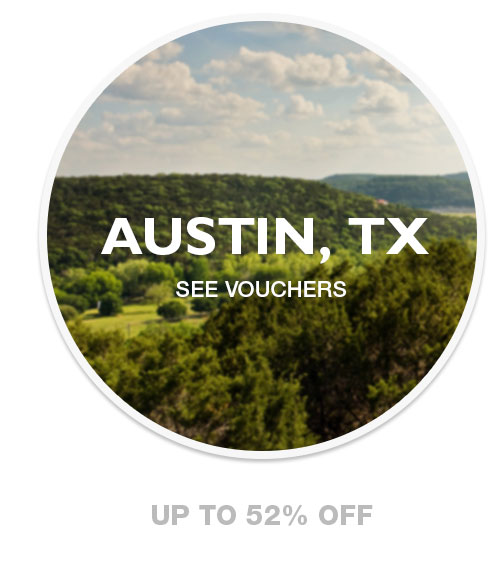
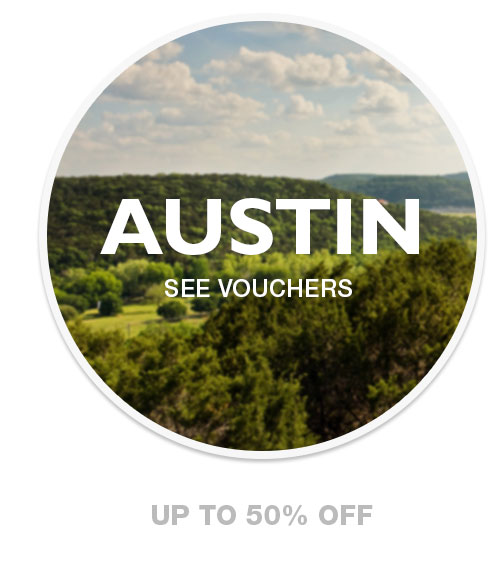
voucher email

Changed region(s): [[0.21, 0.3373, 0.87, 0.5213], [0.51, 0.8586, 0.57, 0.8893]]

diff --git a/templates/preferred/voucher-sale.html b/templates/preferred/voucher-sale.html
@@ -27,18 +27,18 @@
       <td colspan="2"><a href="http://asp.data2gold.com/?4D6F3Z0X30140B3761346A1U53601N460E5C590S4S0I541N523F282G6E05155W0F585V701M5R5E5G0W3H544L2D5M6737622L1H" title="http://travaasa.com/"><img src="./voucher-sale_files/2013feb_01.png" alt="Travaasa Experiential Resorts" width="606" height="110" border="0"></a></td>
     </tr>
     <tr>
-      <td width="303"><a href="http://book48.travaasa.com/category/austin" title="http://book48.travaasa.com/category/austin" target="_blank"><img src="./voucher-sale_files/austin-vouchers.jpg" alt="Austin: Click to Enter. Up to 52% Off" width="303" height="356" border="0"></a></td>
-      <td width="303"><a href="http://book48.travaasa.com/category/hana-maui" title="http://book48.travaasa.com/category/hana-maui" target="_blank"><img src="./voucher-sale_files/hana-vouchers.jpg" alt="Hana: Click to Enter. Up to 50% Off" width="303" height="356" border="0"></a></td>
+      <td width="303"><a href="http://book44.travaasa.com/category/austin" title="http://book44.travaasa.com/category/austin" target="_blank"><img src="./voucher-sale_files/austin-vouchers3.jpg" alt="Austin: Click to Enter. Up to 50% Off" width="303" height="356" border="0"></a></td>
+      <td width="303"><a href="http://book44.travaasa.com/category/hana-maui" title="http://book44.travaasa.com/category/hana-maui" target="_blank"><img src="./voucher-sale_files/hana-vouchers3.jpg" alt="Hana: Click to Enter. Up to 47% Off" width="303" height="356" border="0"></a></td>
     </tr>
     <tr>
-      <td colspan="2" align="center" style="font-family:Arial, Helvetica, sans-serif; font-size:22px; color:#bbbbbb; line-height:32px; font-weight:bold;">BUY NOW&nbsp;&nbsp;/&nbsp;&nbsp;PLAN LATER<br>
-      SALE ENDS 11.25.2013</td>
+      <td colspan="2" align="center" style="font-family:Arial, Helvetica, sans-serif; font-size:22px; color:#bbbbbb; line-height:32px; font-weight:bold;">BUY NOW&nbsp;&nbsp;//&nbsp;&nbsp;PLAN LATER<br>
+      SALE ENDS 12.2.2013<br><br></td>
     </tr>
     <tr>
-      <td colspan="2"><img src="./voucher-sale_files/2013feb_05.jpg" alt="" border="0"></td>
+      <td colspan="2"><img src="./voucher-sale_files/2013feb_05.png" width="250" alt="" border="0"></td>
     </tr>
     <tr>
-      <td colspan="2" align="center" style="font-family:Arial, Helvetica, sans-serif; font-size:22px; color:#bbbbbb; line-height:32px; font-weight:bold;">DON'T MISS IT</td>
+      <td colspan="2" align="center" style="font-family:Arial, Helvetica, sans-serif; font-size:22px; color:#bbbbbb; line-height:32px; font-weight:bold;">P.S. – NO MORE RESORT FEES</td>
     </tr>
     <tr>
     	<td height="70px" colspan="2">&nbsp;<br><br></td>
